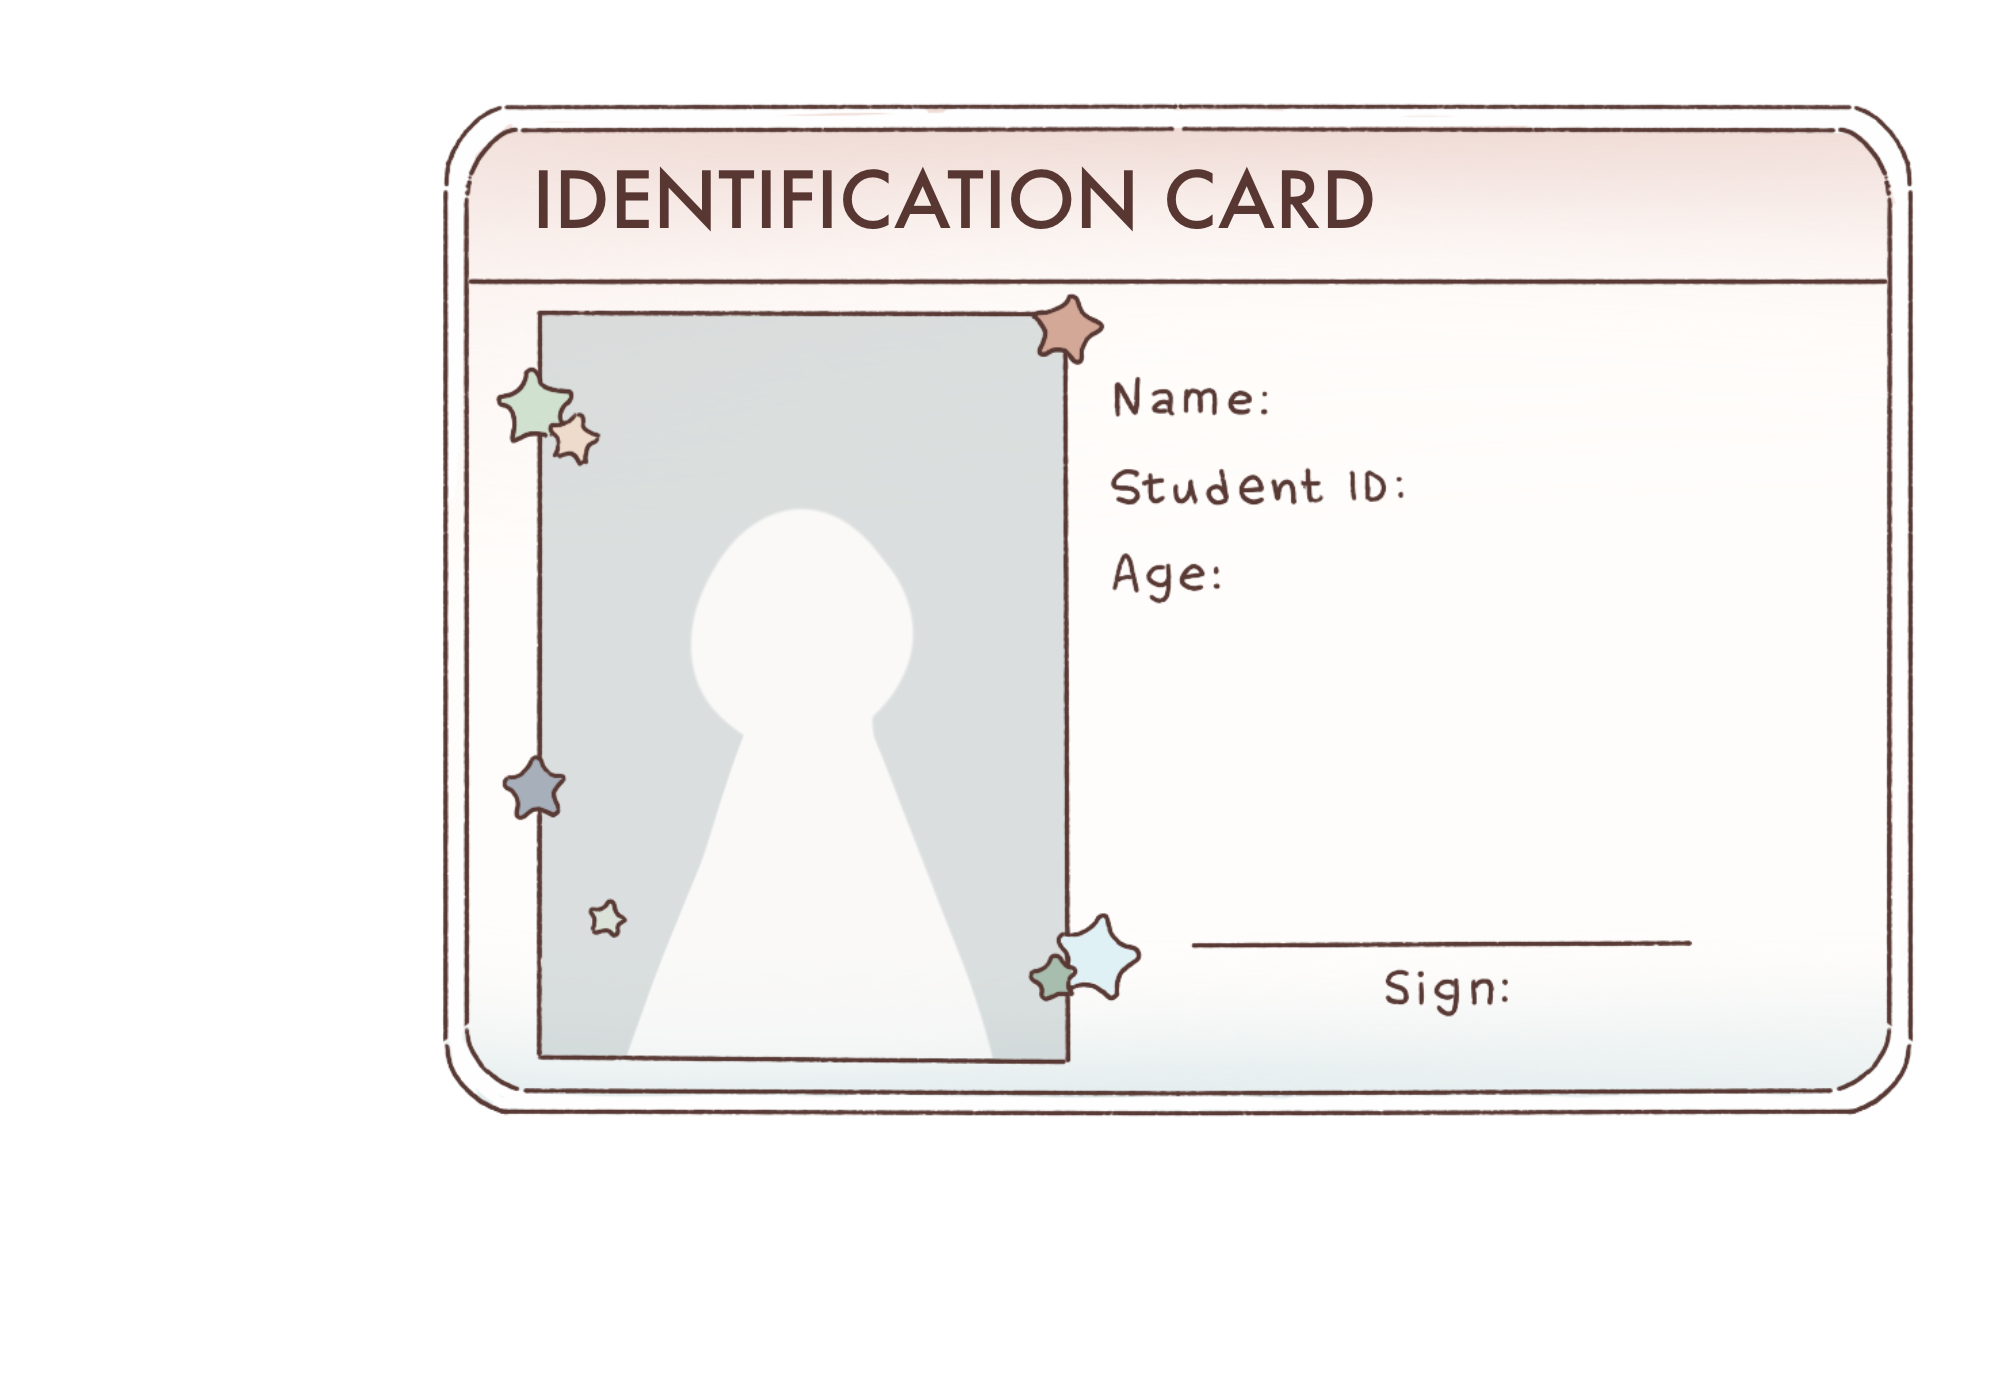
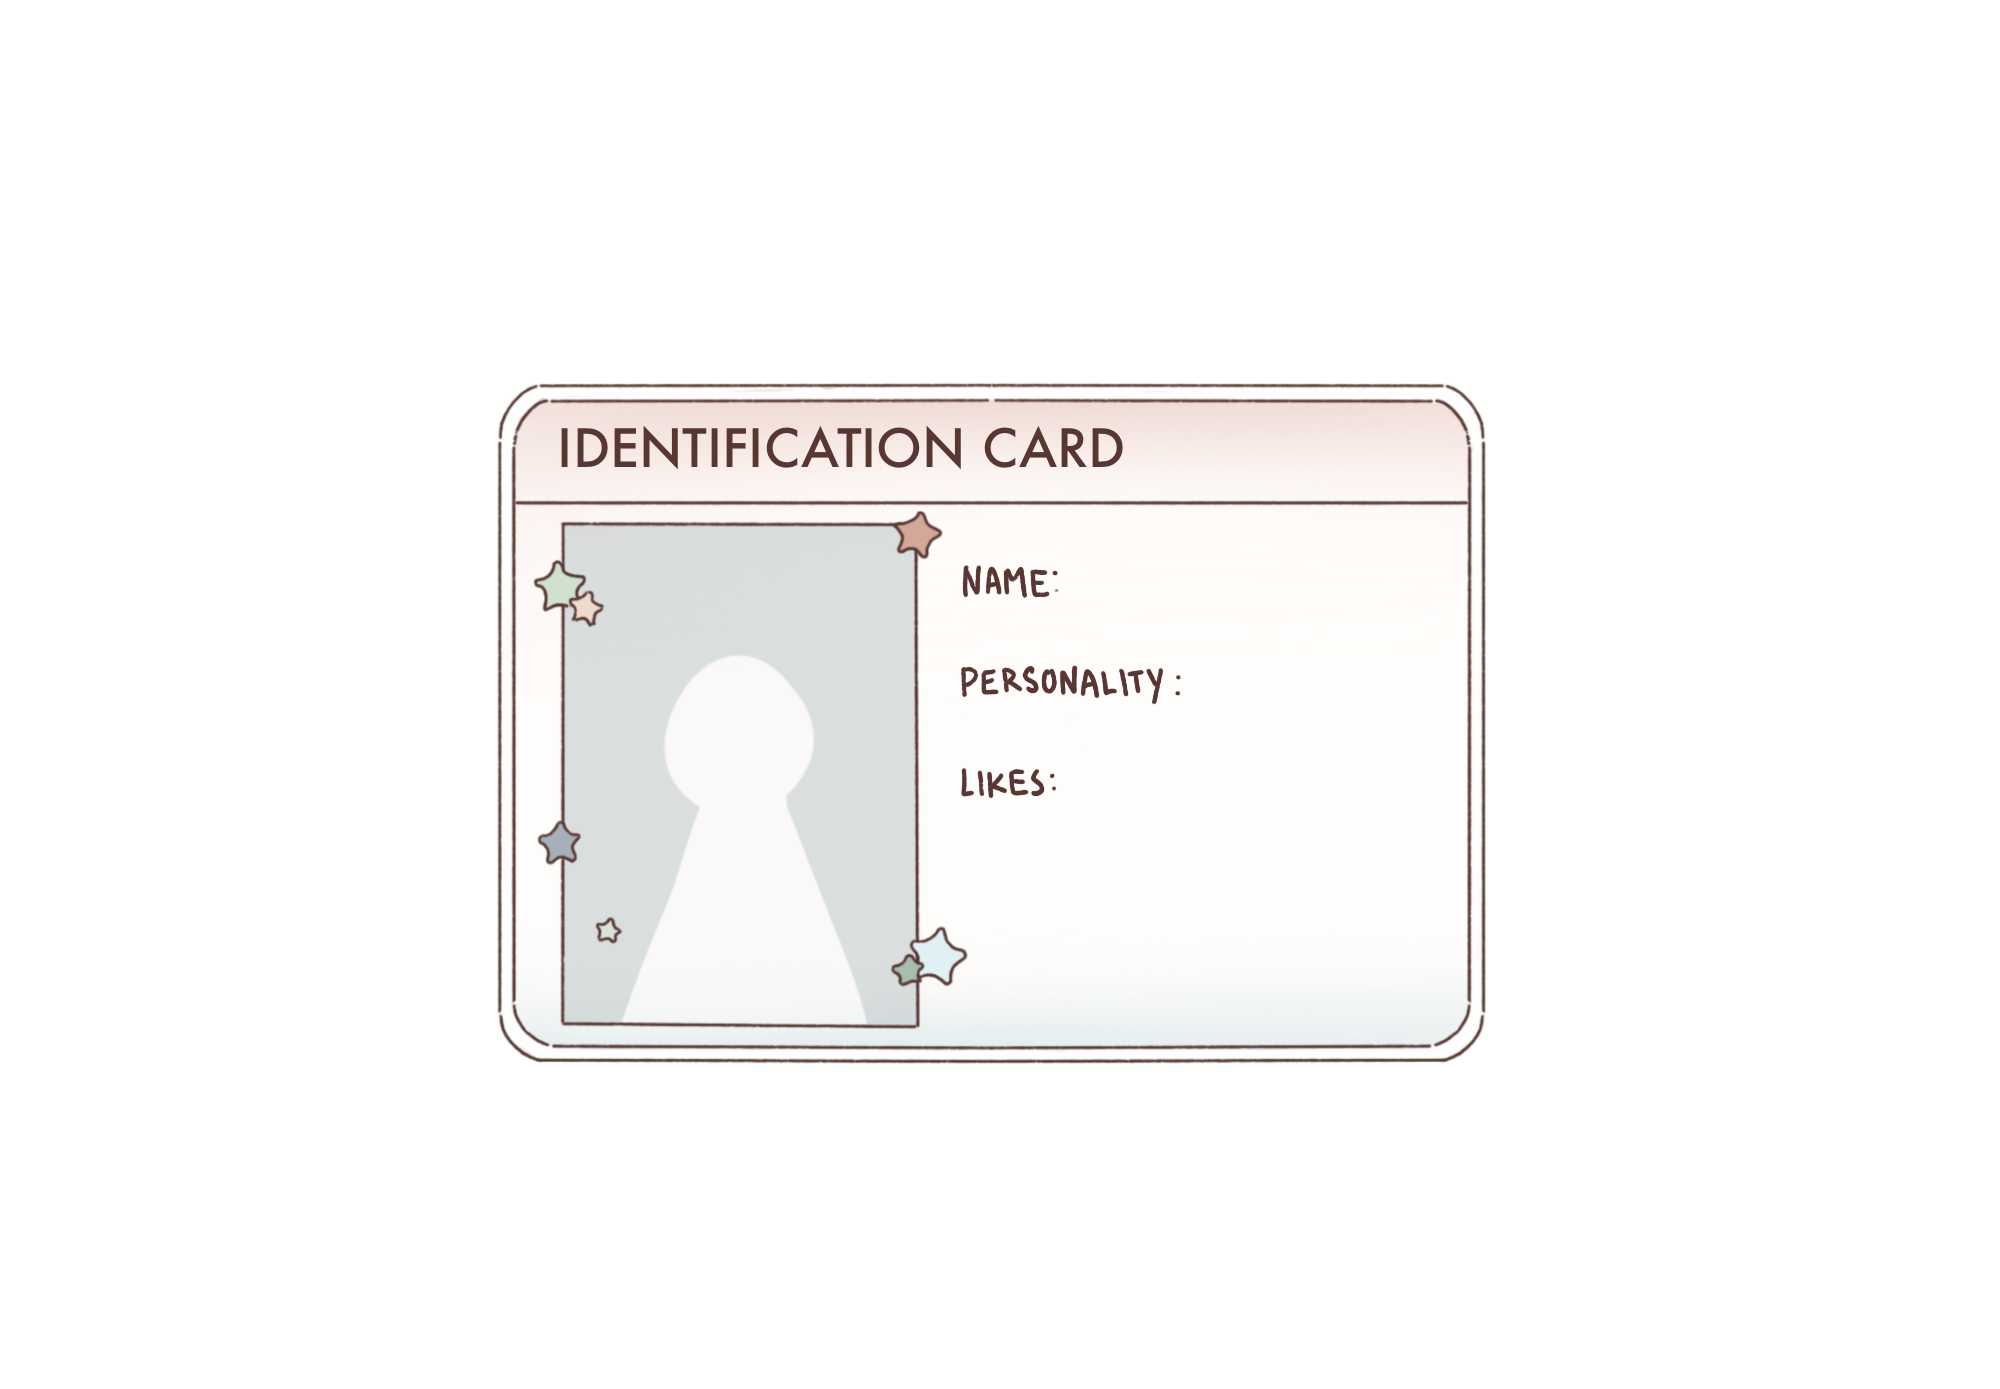
new_game

Changed region(s): [[0.217, 0.0619, 0.961, 0.8049]]

diff --git a/NewGameScreen.java b/NewGameScreen.java
@@ -2,39 +2,77 @@ import javax.swing.*;
 import java.awt.*;
 import java.awt.event.ActionEvent;
 import java.awt.event.ActionListener;
-
 public class NewGameScreen extends JLayeredPane {
     private Font customFont;
+    private static CardLayout cardLayout;
+    private static JPanel mainPanel;
 
-    public NewGameScreen(Font customFont, CardLayout cardLayout, JPanel mainPanel) {
+    // normal constructor
+    public NewGameScreen(Font customFont) {
         this.customFont = customFont;
         setPreferredSize(new Dimension(1080, 750));
 
-        // Load background image
-        ImageIcon background = new ImageIcon("resources/character_selection.png");
 
-        // Check if image loaded properly
-        if (background.getImageLoadStatus() != MediaTracker.COMPLETE) {
-            System.err.println("Error: Image not found or couldn't be loaded");
-            // Fallback - paint background red so you know there's an issue
-            setBackground(Color.RED);
-        }
+        cardLayout = new CardLayout();
+        mainPanel = new JPanel(cardLayout);
+        mainPanel.setBounds(0, 0, 1080, 750);
+        add(mainPanel, Integer.valueOf(0));
 
-        // Scale the image
-        Image scaledBackground = background.getImage().getScaledInstance(1080, 750, Image.SCALE_SMOOTH);
-        ImageIcon scaledIcon = new ImageIcon(scaledBackground);
 
-        // Create background label
-        JLabel backgroundLabel = new JLabel(scaledIcon);
+        // create the layers
+        JLayeredPane firstPet = firstPet();
+//        JLayeredPane secondPet = secondPet();
+//        JLayeredPane thirdPet = thirdPet();
+
+        mainPanel.add(firstPet, "First Pet");
+//        mainPanel.add(secondPet, "Second Pet");
+//        mainPanel.add(thirdPet, "Third Pet");
+
+        cardLayout.show(mainPanel, "First Pet");
+
+        // home button
+        JButton homeButton = MainScreen.buttonCreate(20, 10, 192, 64, "resources/button.png", "resources/button_clicked.png", "Home");
+        add(homeButton, Integer.valueOf(3));
+
+        setVisible(true);
+    }
+
+    // sets the background and the cardid
+    private JLayeredPane backgroundScreen(String idCardPet, JLayeredPane screenSource) {
+        ImageIcon background = new ImageIcon("resources/new_game.png");
+        Image scaledBG = background.getImage().getScaledInstance(1080, 750, Image.SCALE_SMOOTH);
+        ImageIcon scaledIconBG = new ImageIcon(scaledBG);
+        JLabel backgroundLabel = new JLabel(scaledIconBG);
         backgroundLabel.setBounds(0, 0, 1080, 750);
+        screenSource.add(backgroundLabel, Integer.valueOf(0));
 
-        // Add background to the lowest layer (THIS is the JLayeredPane)
-        add(backgroundLabel, Integer.valueOf(0));
 
-        // Add other components
-         JButton homeButton = MainScreen.buttonCreate(20, 10, 192, 64, "resources/white_button.png", "resources/white_button_clicked.png", "Home");
-        add(homeButton, Integer.valueOf(1));}
-    //private JLayeredPane firstPet() {
+        ImageIcon idCard = new ImageIcon(idCardPet);
+        int width = idCard.getIconWidth() - 1000;
+        int height = idCard.getIconHeight() - 700;
+        Image scaledID = idCard.getImage().getScaledInstance(width, height, Image.SCALE_SMOOTH);
+        ImageIcon idCardIcon = new ImageIcon(scaledID);
 
-    //}
+        JLabel idCardLabel = new JLabel(idCardIcon);
+        idCardLabel.setBounds(35, 70, width, height);
+        screenSource.add(idCardLabel, Integer.valueOf(4));
+
+        return screenSource;
+    }
+
+    // first pet screen
+    private JLayeredPane firstPet() {
+        JLayeredPane firstPet = new JLayeredPane();
+        firstPet.setPreferredSize(new Dimension(1080, 750));
+
+        JButton rightButton = TutorialScreen.createButtonWithCardLayout(700, 250, 64, 64, "resources/arrow_button.png", "resources/arrow_button_click.png", "Second Pet");
+        firstPet.add(rightButton, Integer.valueOf(4));
+
+        ImageIcon rightArrowImage = new ImageIcon("resources/right_arrow.png");
+        JLabel rightArrowLabel = new JLabel(rightArrowImage);
+        rightArrowLabel.setBounds(880, 250, 32, 32);
+        firstPet.add(rightArrowLabel, Integer.valueOf(5));
+
+        return backgroundScreen("resources/id_card.png", firstPet);
+    }
 }

diff --git a/TutorialScreen.java b/TutorialScreen.java
@@ -5,8 +5,8 @@ import java.awt.event.ActionListener;
 
 public class TutorialScreen extends JLayeredPane {
     private Font customFont;
-    private CardLayout cardLayout;
-    private JPanel mainPanel;
+    private static CardLayout cardLayout;
+    private static JPanel mainPanel;
 
     public TutorialScreen(Font customFont) {
         this.customFont = customFont;
@@ -162,7 +162,7 @@ public class TutorialScreen extends JLayeredPane {
     }
 
     // Wrapper method to create buttons with CardLayout functionality
-    public JButton createButtonWithCardLayout(int x, int y, int width, int height, String defaultImageSource, String pressedImageSource, String location) {
+    public static JButton createButtonWithCardLayout(int x, int y, int width, int height, String defaultImageSource, String pressedImageSource, String location) {
         // Call the existing buttonCreate function
         JButton button = MainScreen.buttonCreate(x, y, width, height, defaultImageSource, pressedImageSource, location);
 

diff --git a/MainScreen.java b/MainScreen.java
@@ -43,7 +43,7 @@ public class MainScreen extends JFrame {
         // create screens
         JLayeredPane homeScreen = createMainScreen();
         tutorialScreen = new TutorialScreen(customFont);
-        JLayeredPane newGameScreen = new NewGameScreen(customFont, cardLayout, mainPanel);
+        JLayeredPane newGameScreen = new NewGameScreen(customFont);
         JLayeredPane loadScreen = new LoadScreen(customFont);
         JLayeredPane creditScreen = new CreditScreen(customFont, cardLayout, mainPanel);
 
